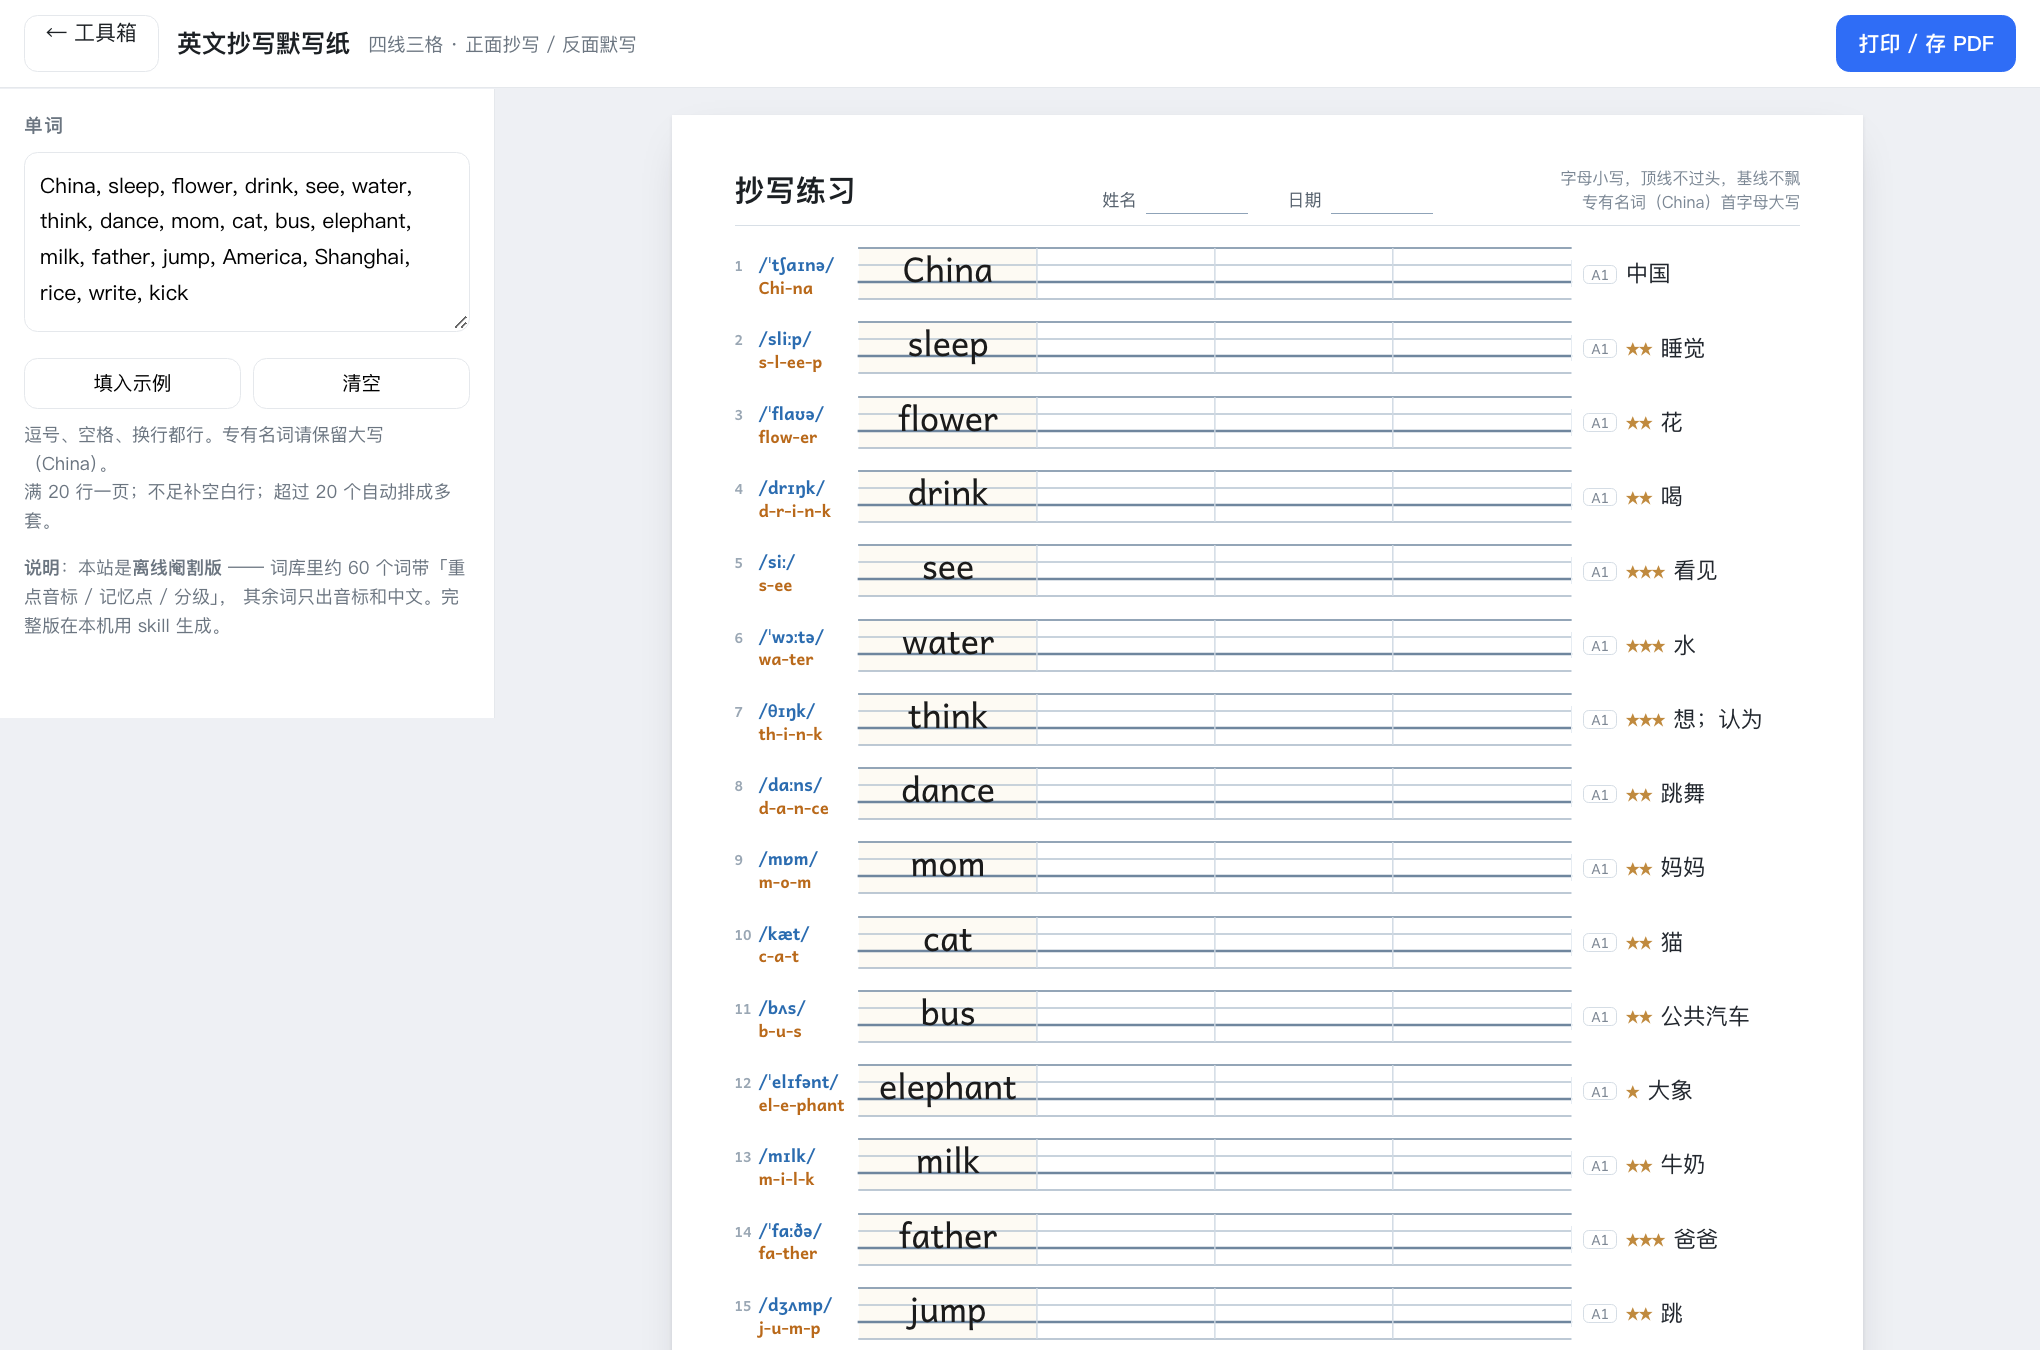
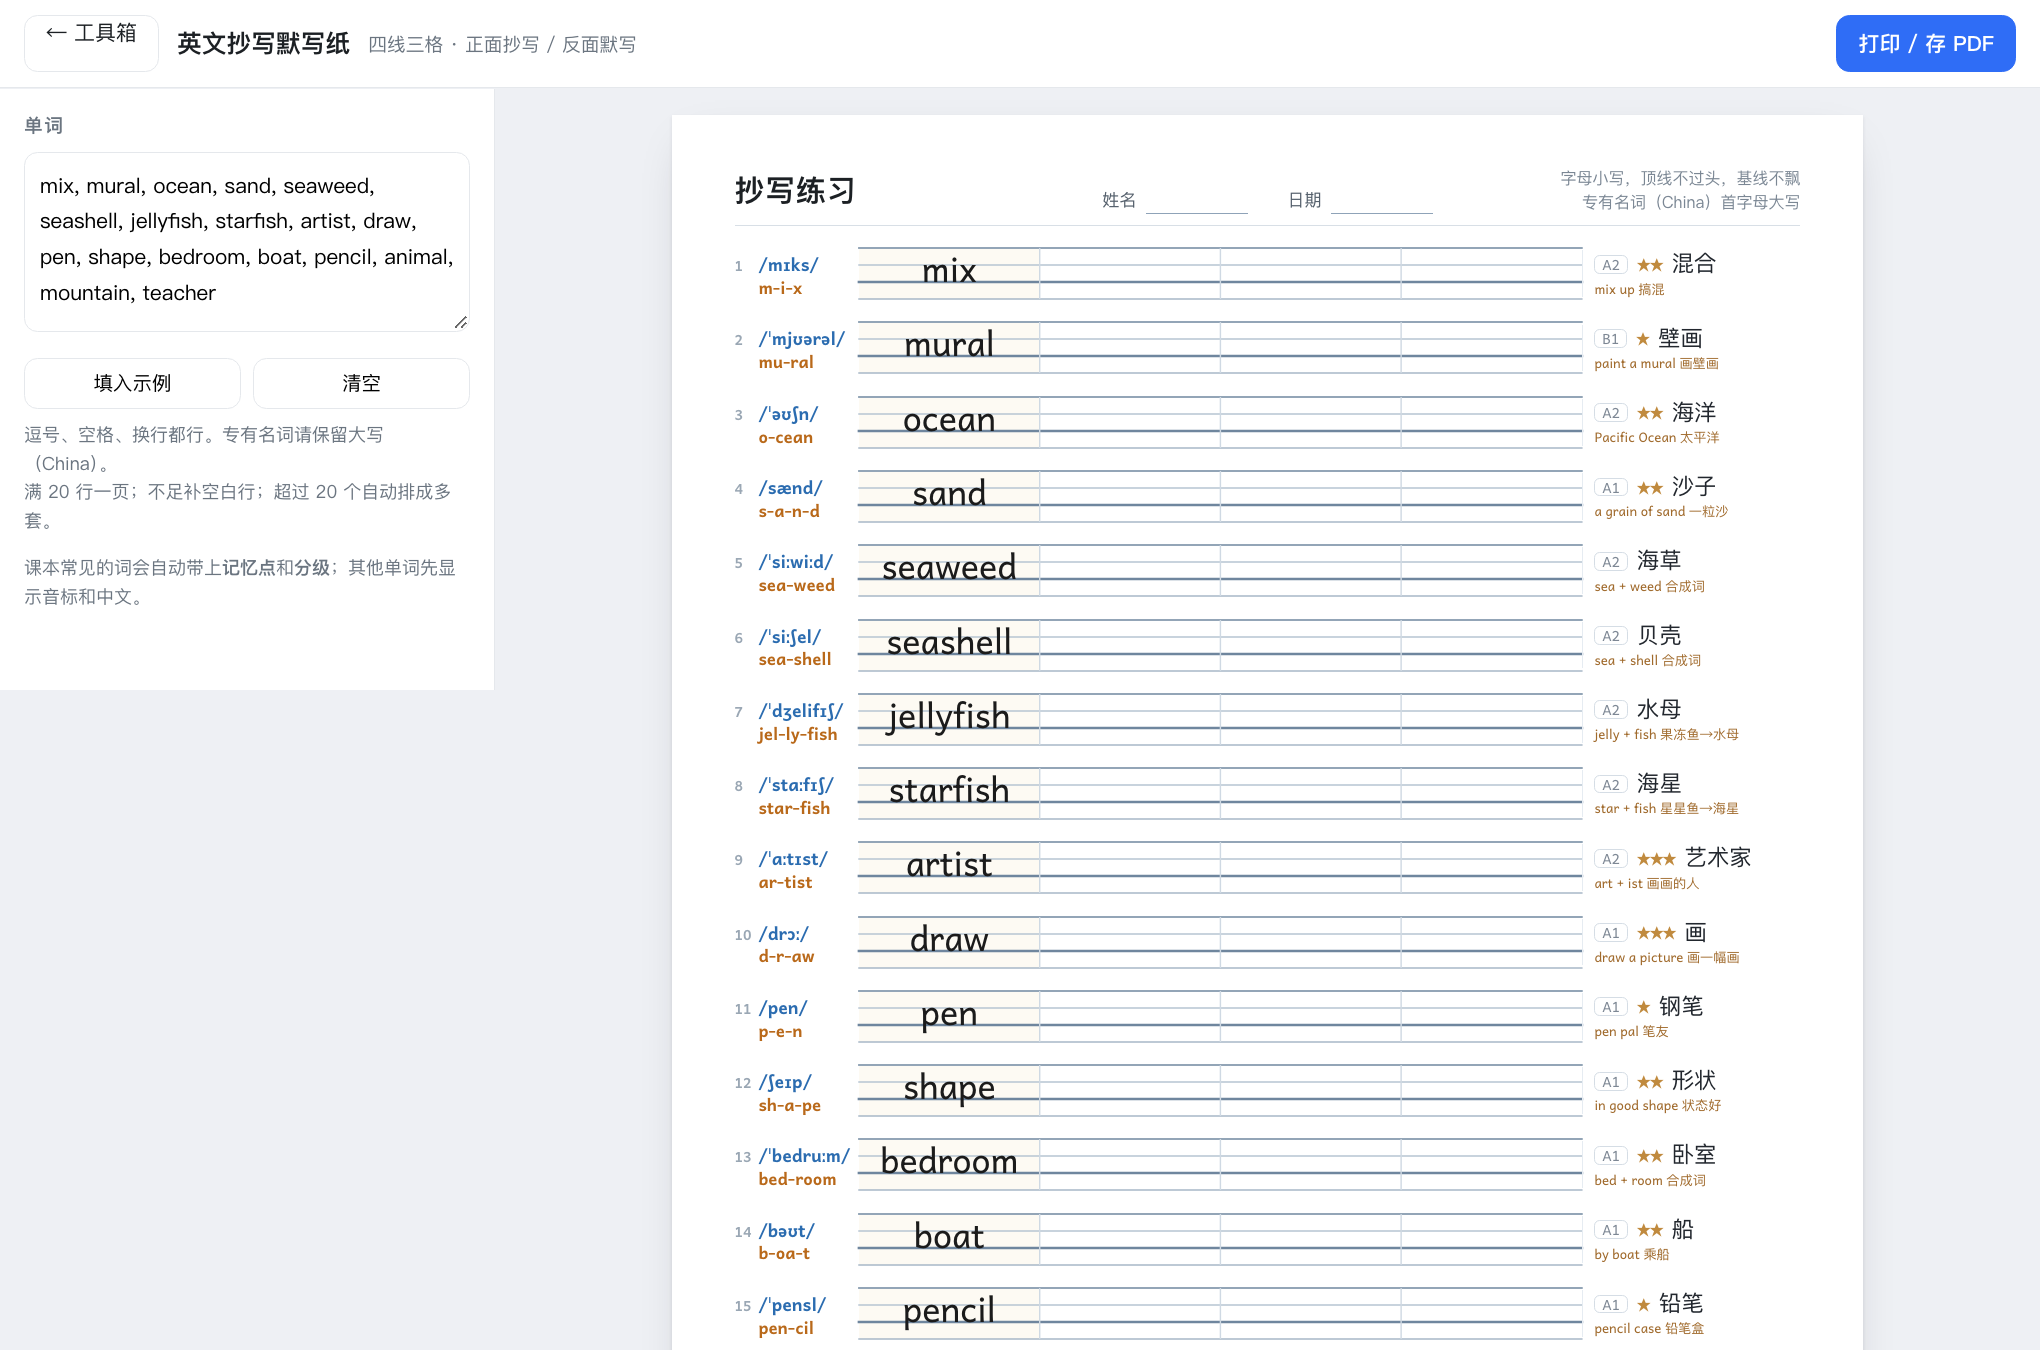
文案改成面向家长：解释分级/词频、去术语、示例词换成带记忆点的

diff --git a/sheet/index.html b/sheet/index.html
@@ -122,8 +122,7 @@
       满 20 行一页；不足补空白行；超过 20 个自动排成多套。
     </p>
     <p class="hint">
-      <b>说明</b>：本站是<b>离线阉割版</b> —— 词库里约 60 个词带「重点音标 / 记忆点 / 分级」，
-      其余词只出音标和中文。完整版在本机用 skill 生成。
+      课本常见的词会自动带上<b>记忆点</b>和<b>分级</b>；其他单词先显示音标和中文。
     </p>
   </aside>
   <main class="stage"><div id="pages"></div></main>
@@ -389,7 +388,7 @@ function fit(){
   document.documentElement.style.setProperty('--s', s.toFixed(3));
 }
 
-const DEMO = 'China, sleep, flower, drink, see, water, think, dance, mom, cat, bus, elephant, milk, father, jump, America, Shanghai, rice, write, kick';
+const DEMO = 'mix, mural, ocean, sand, seaweed, seashell, jellyfish, starfish, artist, draw, pen, shape, bedroom, boat, pencil, animal, mountain, teacher';
 document.getElementById('words').value = DEMO;
 document.getElementById('words').addEventListener('input', () => { clearTimeout(window.__t); window.__t = setTimeout(render, 180); });
 document.getElementById('demo').onclick = () => { document.getElementById('words').value = DEMO; render(); };

diff --git a/index.html b/index.html
@@ -57,7 +57,7 @@ const TOOLS = [
 
   { id:'sheet', name:'英文抄写默写纸', emoji:'📝', status:'live', path:'sheet/index.html',
     grade:'一年级', tags:['英语','写字','打印'],
-    desc:'输入单词，生成可双面打印的 A4：正面四线三格抄写，反面看中文写英文。带音标、自然拼读、CEFR 分级、词频星级和记忆点。' },
+    desc:'输入这周的单词，生成 A4 双面练习纸：正面抄写加记词，反面默写。带英式音标、自然拼读切分、难度分级、词频星级和记忆点。' },
 
   { id:'shuerte', name:'舒尔特方格', emoji:'⏱', status:'planned', grade:'5 岁以上', tags:['专注力'],
     desc:'5×5 数字找 1→25，每天计时记录，练视觉专注力。可打印。' },

diff --git a/README.md b/README.md
@@ -10,14 +10,34 @@
 
 ### 📝 英文抄写默写纸（`sheet/`）
 
-输入单词 → 生成可双面打印的 A4：**正面四线三格抄写，反面看中文写英文**。
-带英式音标、自然拼读切分、CEFR 分级、ECDICT 词频星级、以及「记忆点」（合成词拆解 /
-不发音字母 / 常用搭配，只在该有的时候出现）。四线三格总高 9mm，对齐小学英语练习本。
+输入这周要学的单词，一键生成 **A4 双面练习纸**：**正面抄写 + 记词，反面默写**。
 
-本地还有一套完整版：由 Claude Code skill 生成，元数据（重点音标 / 记忆点 / 分级）逐词判断，
-输出可直接打印的 PDF；线上这份是离线阉割版，词库外的新词只出音标和中文。
+每行一个词 —— 左边音标和拼读切分，中间范字带三格临写，右边中文、难度和记忆点。
+反面只给中文和音标，让孩子自己写出来。
 
 ![英文抄写默写纸](docs/shot-engsheet.png)
+
+**特色**
+
+- **英式音标** —— 和国内教材一致（`yellow /ˈjeləʊ/`），不是美式
+- **自然拼读切分** —— `l-igh-t`、`sea-shell`，让孩子看见"哪几个字母发哪个音"
+- **记忆点** —— 合成词拆解（`sea + shell`）、常用搭配（`a grain of sand` 一粒沙）、
+  不发音字母；只在真有钩子时才给，不硬凑
+- **英语书写字体** —— 字母 `a`、`g` 是单层写法，和小学课本的手写体一致，不是印刷体的双层 a
+- **难度和词频标注** —— 一眼看出这个词值不值得现在花时间
+
+**两个标记怎么看**
+
+| 标记 | 含义 |
+|---|---|
+| `A1` | 入门词 · 小学低年级高频，日常马上能用 |
+| `A2` | 基础词 · 小学中高年级常见 |
+| `B1` | 进阶词 · 明显超出日常，多在阅读里遇到 |
+| `★★★` | 英语最常见的 1000 词，必须秒认秒写 |
+| `★★` | 前 3000 词，日常够用 |
+| `★` | 前 10000 词，值得学 |
+
+> 分级看难度，星级看值不值得现在花时间。**A1 + ★★★** = 必掌握；**B1 + 无星** = 知道就好。
 
 <details>
 <summary>看工具界面 / 看板首页</summary>
